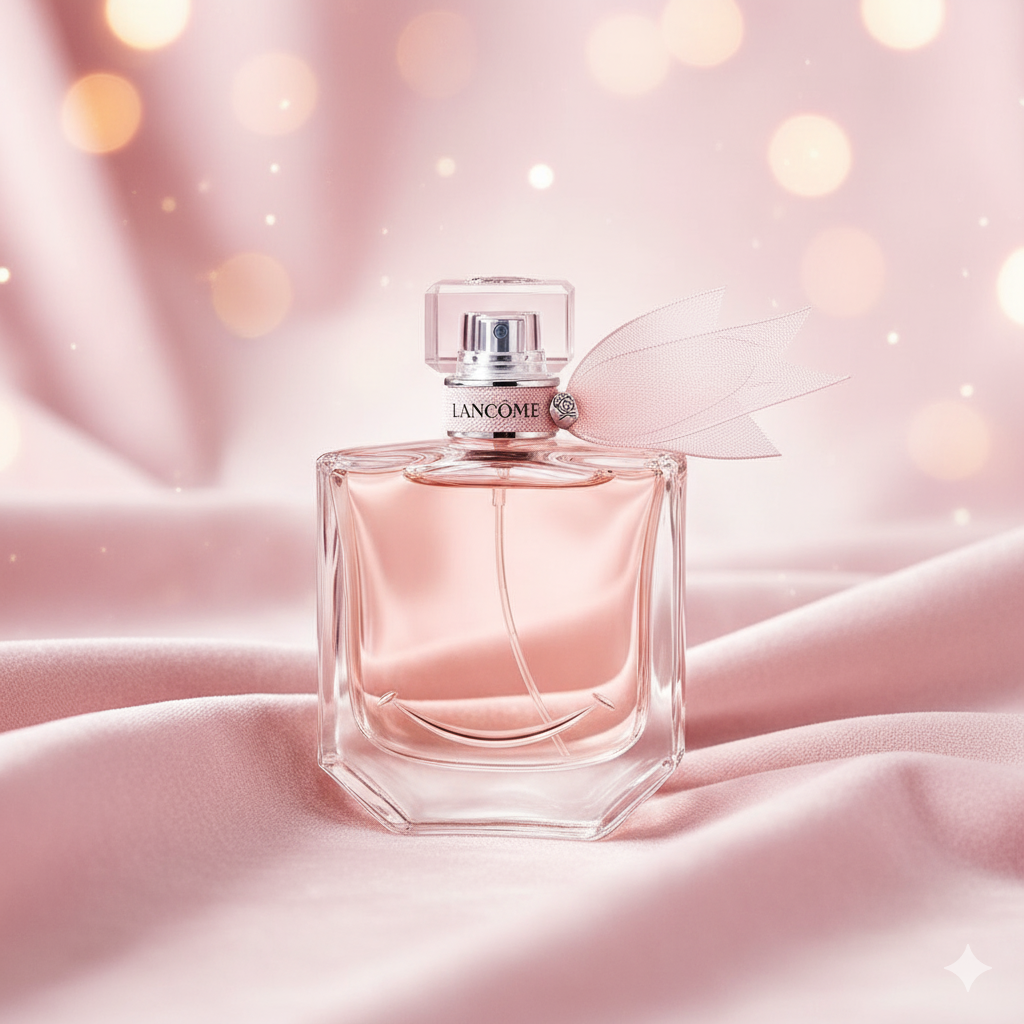
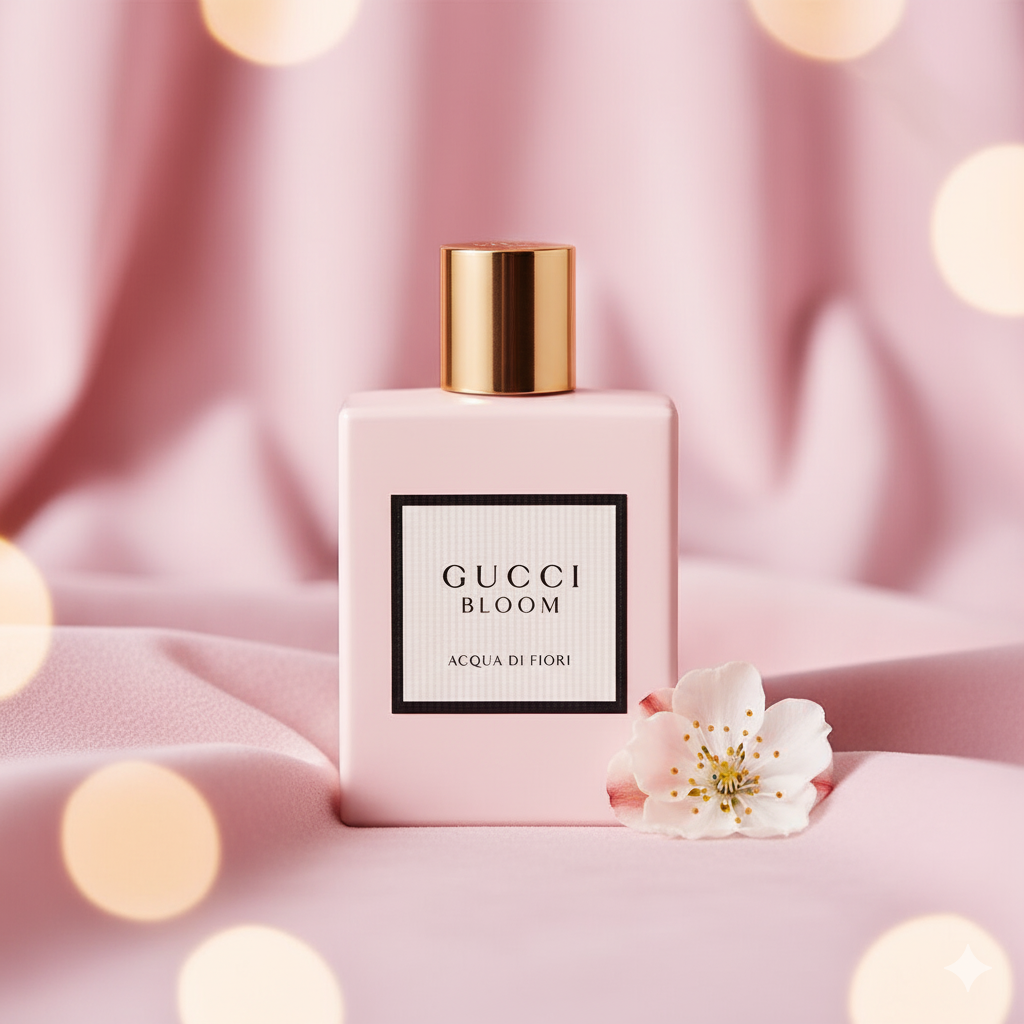
Product section, wishlist section added(static)

diff --git a/src/Components/Collections/Collection.jsx b/src/Components/Collections/Collection.jsx
@@ -1,0 +1,56 @@
+import React, { useState } from "react";
+import { CiHeart } from "react-icons/ci";
+import { FaHeart } from "react-icons/fa";
+
+const Collection = ({ perfume }) => {
+  const [liked, setLiked] = useState(false);
+  const handleWishlistButton = () => {
+    setLiked(!liked);
+  };
+  return (
+    <div className="h-full">
+      <div className="card bg-base-100 w-96 shadow-sm h-full flex flex-col">
+        <figure className="px-10 pt-10">
+          <img src={perfume.image} alt={perfume.name} className="rounded-xl" />
+        </figure>
+        <div className="card-body flex flex-col justify-between flex-1 items-center text-center">
+          <div className="flex gap-4">
+            <h2 className="card-title">{perfume.name}</h2>
+            {/*Wish List button ---------------------------------------------------*/}
+            <button
+              onClick={() => handleWishlistButton(!liked)}
+              className="p-1 text-pink-500 hover:text-pink-500"
+              style={{ backgroundColor: "white", border: "none", padding: "0.25rem" }}    
+            >
+              {liked ? <FaHeart size={19} title="Remove From Wishlist"/> : <CiHeart size={24} title="Add to wishlist"/>}
+            </button>
+          </div>
+          <p>{perfume.description}</p>
+          {/*Dropdown-Size-btn--------------------------------------------------*/}
+          <div className="flex items-center gap-2 mt-2">
+            <span className="font-semibold">Size:</span>
+            <select
+              className="select select-bordered w-40"
+              defaultValue="100ml - Full Size"
+            >
+              <option>5ml</option>
+              <option>10ml</option>
+              <option>20ml</option>
+              <option>100ml Full Size</option>
+            </select>
+          </div>
+          {/*Price-Section--------------------------------------------------*/}
+          <div className="flex items-center gap-2 mt-1">
+            <span className="font-semibold">Price:</span>
+            <span>BDT {perfume.price}</span>{" "}
+          </div>
+          <div className="card-actions">
+            <button className="btn">Add to Cart</button>
+          </div>
+        </div>
+      </div>
+    </div>
+  );
+};
+
+export default Collection;

diff --git a/src/Components/Navbar.jsx b/src/Components/Navbar.jsx
@@ -2,7 +2,7 @@ import { BsCartCheck } from "react-icons/bs";
 const Navbar = () => {
     return (
         <div>
-            <nav className="bg-white shadow-sm px-4 py-2 flex items-center justify-between">
+            <nav className="bg-white shadow-sm px-20 py-5 flex items-center justify-between fixed top-0 left-0 w-full z-50">
                 {/* Left: Logo */}
                 <a
                     href="#"
@@ -14,7 +14,7 @@ const Navbar = () => {
                 </a>
                 <ul className="hidden lg:flex gap-6 text-gray-700">
                 <li>
-                    <a href="#" className="hover:text-gray-900">Item 1</a>
+                    <a href="#" className="hover:text-gray-900">About Us</a>
                 </li>
 
                 <li className="relative group">
@@ -30,7 +30,7 @@ const Navbar = () => {
                 </li>
 
                 <li>
-                    <a href="#" className="hover:text-gray-900">Item 3</a>
+                    <a href="#" className="hover:text-gray-900">Contact Us</a>
                 </li>
                 </ul>
 

diff --git a/src/Components/Body.jsx b/src/Components/Body.jsx
@@ -1,0 +1,27 @@
+import React, { Suspense } from "react";
+import Collections from "./Collections/Collections";
+import WishlistProducts from "./Wishlist/WishlistProducts";
+const Body = () => {
+  const collectionsPromise = fetch("Collection.json").then((res) => res.json());
+  return (
+    <div>
+      <div className="flex mx-20">
+        <div className="w-2/3">
+          <h2 className="text-3xl font-bold text-center m-6">Our Collection</h2>
+          <Suspense fallback="Perfume Collection is loading...">
+            <Collections collectionsPromise={collectionsPromise}> </Collections>
+          </Suspense>
+        </div>
+        <div className="w-1/3">
+          <Suspense fallback="Perfume Collection is loading...">
+            <WishlistProducts
+              collectionsPromise={collectionsPromise}
+            ></WishlistProducts>
+          </Suspense>
+        </div>
+      </div>
+    </div>
+  );
+};
+
+export default Body;

diff --git a/src/Components/Wishlist/WishlistProducts.jsx b/src/Components/Wishlist/WishlistProducts.jsx
@@ -1,0 +1,22 @@
+import React from "react";
+import WishlistProduct from "./WishlistProduct";
+import { use } from "react";
+import { FaHeart } from "react-icons/fa";
+
+const WishlistProducts = ({ collectionsPromise }) => {
+  const wishlist = use(collectionsPromise);
+  return (
+    <div className="max-w-4xl mx-auto p-5">
+  <h2 className="text-2xl font-bold mb-6 text-center flex items-center justify-center gap-2">
+    My Wishlist <FaHeart size={20} className="text-pink-500" />
+  </h2>
+      <div className="flex flex-col gap-4 overflow-y-auto pr-2 max-h-[400px]">
+        {wishlist.map((wishlist) => (
+        <WishlistProduct wishlist={wishlist}></WishlistProduct>
+      ))}
+        </div>
+    </div>
+  );
+};
+
+export default WishlistProducts;

diff --git a/src/Components/Wishlist/WishlistProduct.jsx b/src/Components/Wishlist/WishlistProduct.jsx
@@ -1,0 +1,26 @@
+import React, { use } from "react";
+
+const WishlistProduct = ({wishlist}) => {
+
+  return (
+    <div>
+      <div className="card card-side bg-base-100 shadow-sm p-5 flex items-center">
+        <img
+          className="w-20 h-20 rounded-xl border-2 object-cover"
+          src={wishlist.image}
+          alt="Perfume"
+        />
+        <div className="px-5">
+          <h2 className="font-semibold text-lg">{wishlist.name}</h2>
+          <h2 className="text-gray-600">BDT 500</h2>
+        </div>
+        <button
+        title="Remove from wishlist"
+        style={{ backgroundColor: "white", border: "none", padding: "0.25rem"}}
+        >x</button>
+      </div>
+    </div>
+  );
+};
+
+export default WishlistProduct;

diff --git a/src/App.jsx b/src/App.jsx
@@ -1,14 +1,17 @@
-import './App.css'
-import Hero from './Components/Hero'
-import Navbar from './Components/Navbar'
+import "./App.css";
+import Body from "./Components/Body";
+import Hero from "./Components/Hero";
+import Navbar from "./Components/Navbar";
 
 function App() {
   return (
     <>
-      <Navbar> </Navbar>
-      <Hero></Hero>
+      <Navbar />
+      <div className="pt-20">
+        <Hero />
+      </div>
+      <Body></Body>
     </>
-  )
+  );
 }
-
-export default App
+export default App;

diff --git a/src/index.css b/src/index.css
@@ -55,6 +55,24 @@ button:focus,
 button:focus-visible {
   outline: 4px auto ring-0;
 }
+button-lora {
+  border-radius: 8px;
+  border: 0px solid #FEDCDB;
+  padding: 0.6em 1.2em;
+  font-size: 1.2em;
+  font-family: inherit;
+  font-weight:400;
+  background-color: #FEDCDB;
+  cursor:pointer;
+}
+button-lora:hover {
+  color: #e44b8d;
+  outline:none;
+}
+button-lora:focus,
+button-lora:focus-visible {
+  outline: 4px auto ring-0;
+}
 
 @media (prefers-color-scheme: light) {
   :root {

diff --git a/src/Components/Collections/Collections.jsx b/src/Components/Collections/Collections.jsx
@@ -1,0 +1,18 @@
+import React, { use } from "react";
+import Collection from "./Collection";
+
+const Collections = ({ collectionsPromise }) => {
+  const perfumes = use(collectionsPromise);
+  console.log(perfumes);
+  return (
+    <div>
+      <div className="grid grid-cols-2 gap-y-10">
+        {perfumes.map((perfume) => (
+          <Collection perfume={perfume}></Collection>
+        ))}
+      </div>
+    </div>
+  );
+};
+
+export default Collections;
